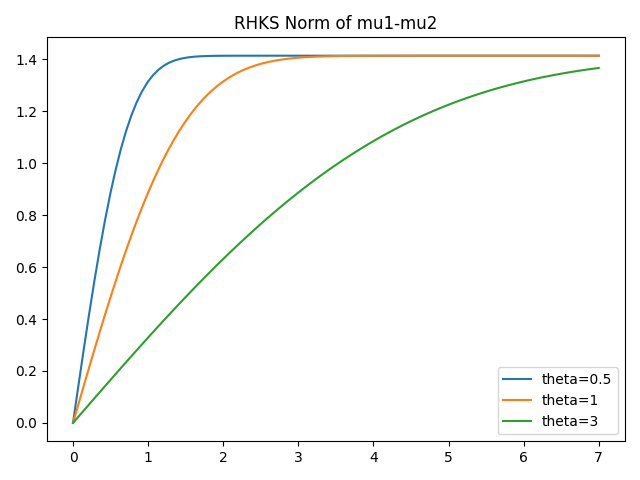
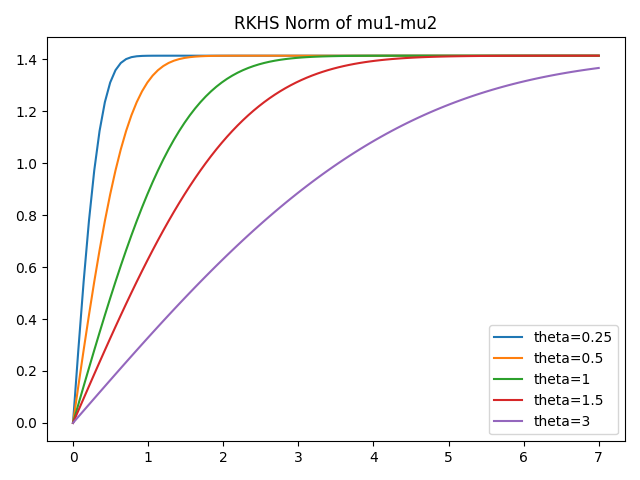
add plot function for exp and branni

diff --git a/simfun.py b/simfun.py
@@ -2,6 +2,8 @@
 
 import numpy as np
 import matplotlib.pyplot as plt
+from matplotlib import cm
+from mpl_toolkits.mplot3d import axes3d
 
 def branin(input=[3., 4.]):
     "Branin function: "
@@ -23,6 +25,35 @@ def mod_branin(input=[3., 4.]):
 
     return branin(input) + 20*x1 - 30*x2
 
+def show_branin(x_low=-1, x_up=1, y_low=-1, y_up=1, x_nums=100, y_nums=100):
+    fig = plt.figure(figsize=plt.figaspect(0.5))
+    ax = fig.add_subplot(1, 2, 1, projection='3d')
+
+    X = np.arange(-5, 10, 0.25)
+    Y = np.arange(0, 15, 0.25)
+    X, Y = np.meshgrid(X, Y)
+
+    branin1 = Y - 5.1*(X**2) / (4*np.pi**2) + 5*X / np.pi - 6
+    branin2 = 10*(1 - 1/(8*np.pi))*np.cos(X)
+    branin = branin1**2 + branin2 + 10
+    Z = branin
+
+    surf = ax.plot_surface(X, Y, Z, rstride=1, cstride=1, cmap=cm.coolwarm,
+                           linewidth=0, antialiased=False)
+
+    ax.set_zlim(-20, 300)
+    fig.colorbar(surf, shrink=0.5, aspect=10)
+
+    ax = fig.add_subplot(1, 2, 2, projection='3d')
+    ax.plot_wireframe(X, Y, Z, rstride=5, cstride=5)
+    ax.set_zlim(-20, 300)
+
+    plt.show()
+
+    fig.savefig("./branin_3d")
+
+    return 0
+
 def exp_mu(input, mu, theta=1):
     """
     Exponential function on ||input - mu||^2,
@@ -42,21 +73,27 @@ def diff_mu1_mu2(mu1, mu2, theta=1):
 
     return norm_rkhs
 
-
-if __name__ == "__main__":
-    x_draw = np.linspace(0, 7, 100)
-
-    y_theta_1 = [diff_mu1_mu2([0], [ele], theta=1) for ele in x_draw]
-    y_theta_1_2 = [diff_mu1_mu2([0], [ele], theta=0.5) for ele in x_draw]
-    y_theta_3 = [diff_mu1_mu2([0], [ele], theta=3) for ele in x_draw]
+def plot_rkhs_norm(low_diff=0, up_diff=7, theta_lst=[0.25, 0.5, 1, 1.5, 3]):
+    """
+    x-axis: mu1 - mu2, 1-dim scenario
+    y-axis: diff_mu1_mu2
+    """
+    x_draw = np.linspace(low_diff, up_diff, 100)
     
-    print(diff_mu1_mu2([0, 0], [1, 1], theta=3))
     fig, ax = plt.subplots(1, 1)
     ax.set_title("RKHS Norm of mu1-mu2")
-    ax.plot(x_draw, y_theta_1_2, label="theta=0.5")
-    ax.plot(x_draw, y_theta_1, label="theta=1")
-    ax.plot(x_draw, y_theta_3, label="theta=3")
+
+    for theta in theta_lst:
+        y_theta = [diff_mu1_mu2([0], [ele], theta) for ele in x_draw]
+        ax.plot(x_draw, y_theta, label="theta="+str(theta))
 
     ax.legend()
     fig.tight_layout()
     fig.savefig("./rkhs_norm_mu1_mu2")
+
+    return 0
+
+
+if __name__ == "__main__":
+    plot_rkhs_norm()
+    show_branin()
